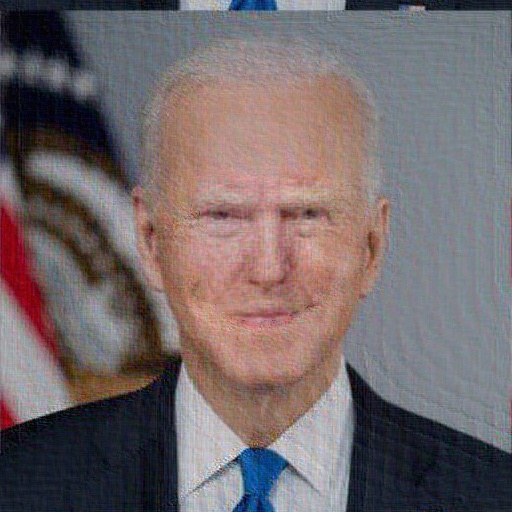
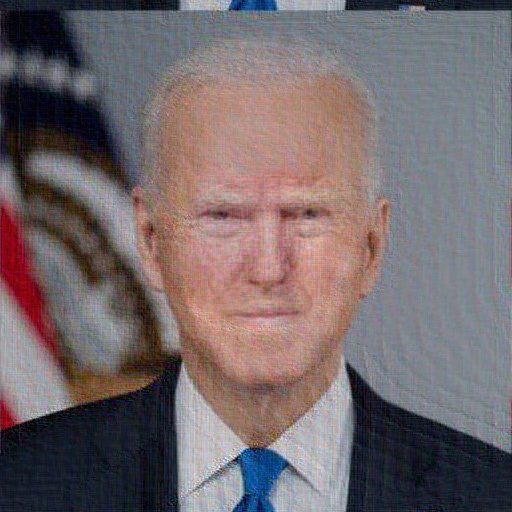
use official mask

diff --git a/main.py b/main.py
@@ -118,8 +118,8 @@ def Wiener_filter(img, kernel, K):
 if __name__ == "__main__":
     Biden = cv2.imread('images/man1.jpg').astype(np.float32) / 255
     Trump = cv2.imread('images/man2.jpg').astype(np.float32) / 255
-    mask = scio.loadmat('images/mask.mat')['mask'].astype(np.uint8)
-    mask[mask != 0] = 1
+    mask = scio.loadmat('images/mask.mat')['mask'].astype(np.float32)
+    mask /= 255
     mask = 1 - mask
     res_Trump = restore_Trump(Trump)
     res_Biden = restore_Biden(Biden)
